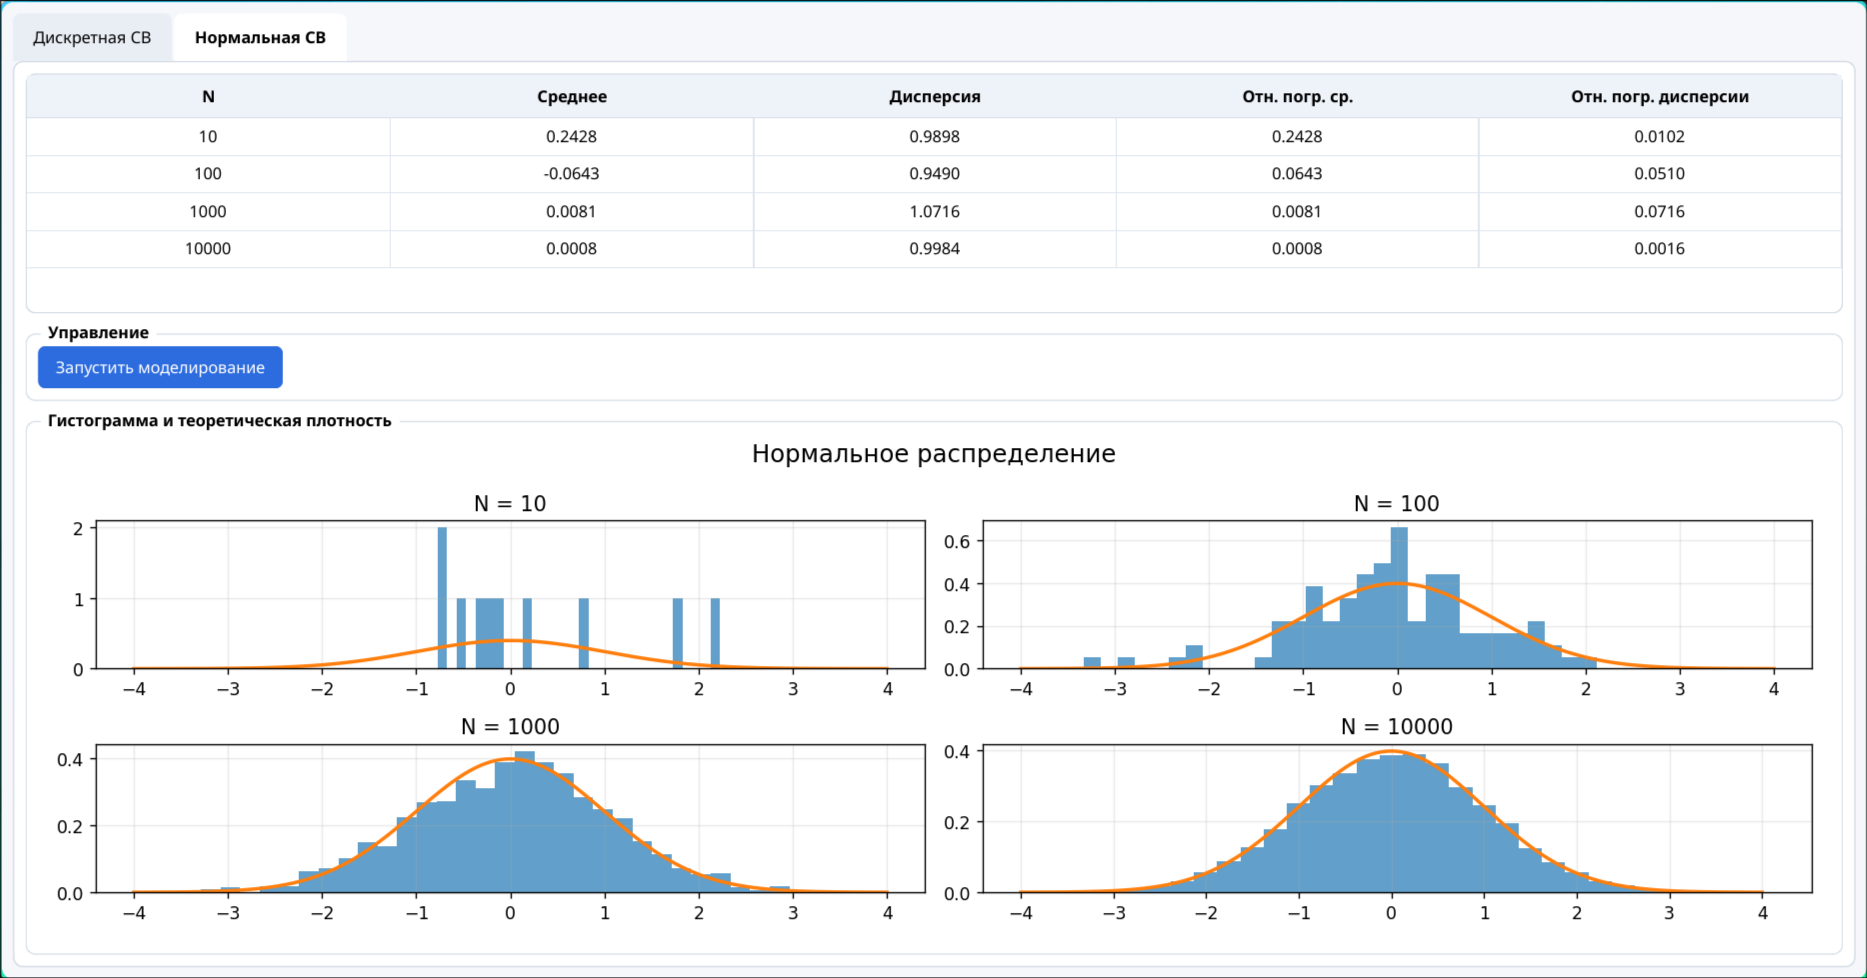
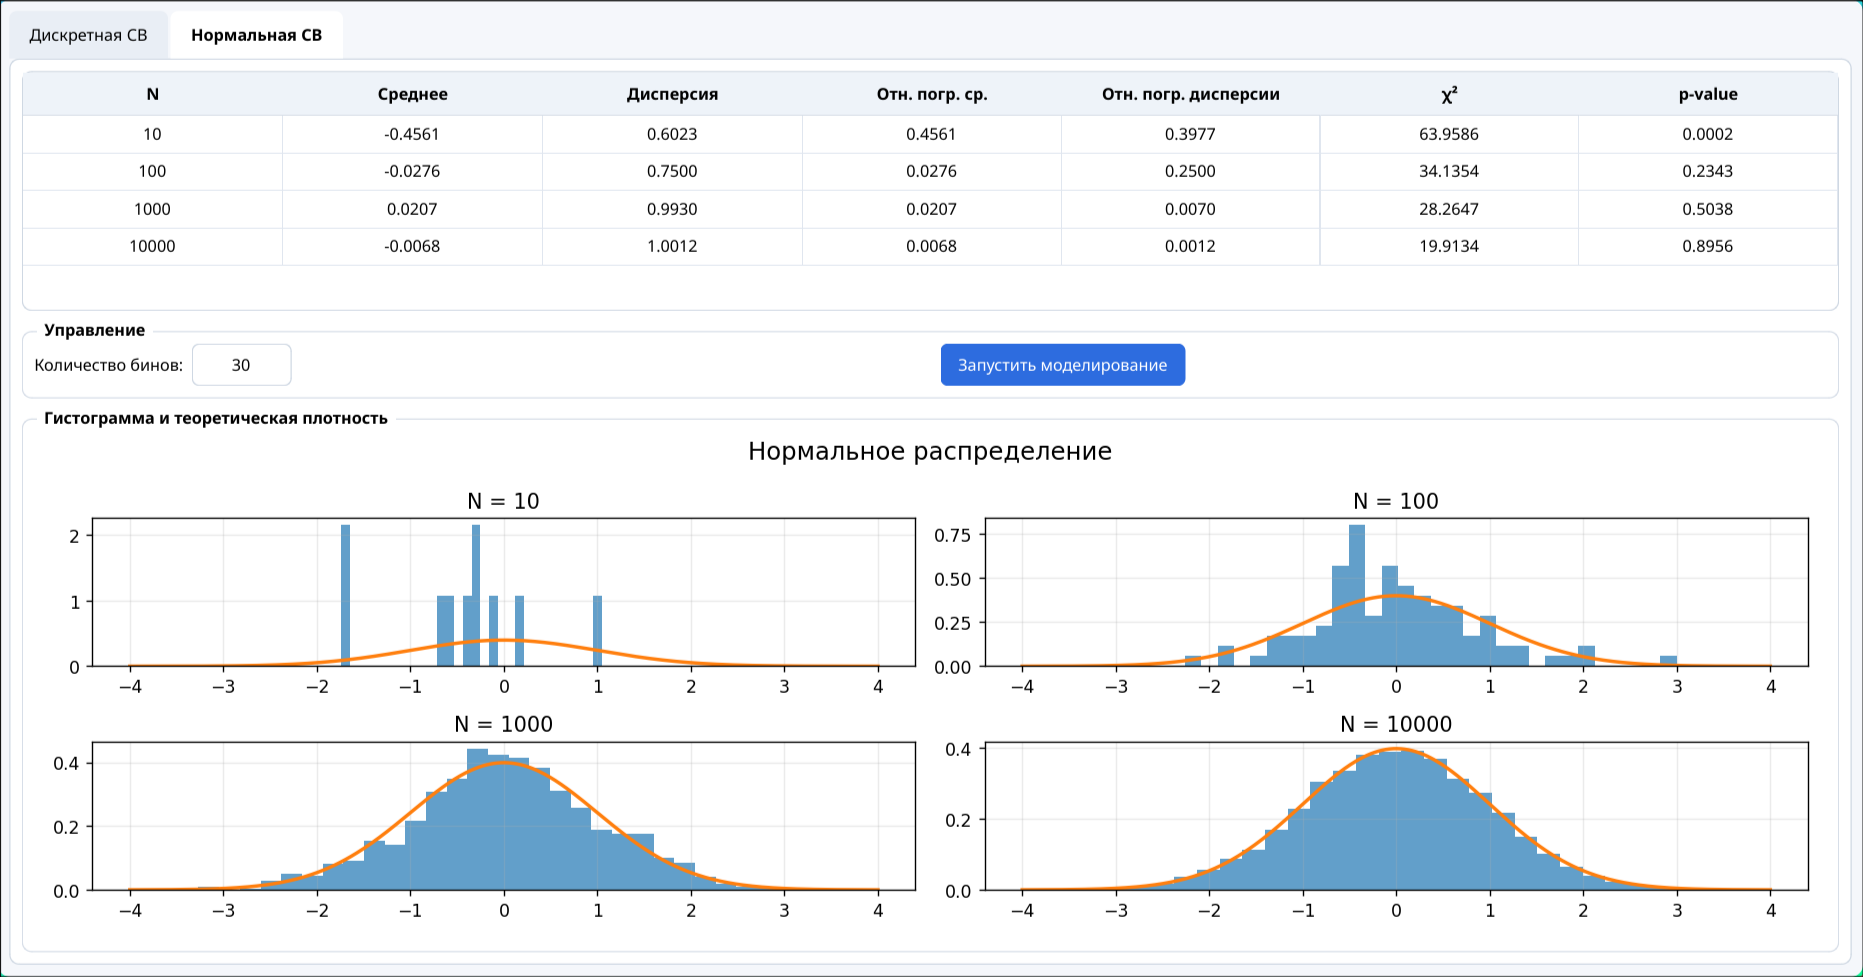
fix lab6

diff --git a/lab06/main.py b/lab06/main.py
@@ -82,6 +82,43 @@ def analyze_discrete(sample: np.ndarray, n: int, probs: np.ndarray):
 
     return emp_p, mean, var, rel_mean_err, rel_var_err, chi_val, p_value
 
+from scipy.stats import norm, chi2
+import numpy as np
+
+def analyze_normal(sample: np.ndarray, n: int, bins: int = 6):
+    true_mean = 0.0
+    true_var = 1.0
+
+    mean = np.mean(sample)
+    var = np.var(sample)
+
+    rel_mean_err = abs(mean - true_mean)
+    rel_var_err = abs(var - true_var)
+
+    counts, bin_edges = np.histogram(sample, bins=bins)
+
+    O = counts
+
+    P = []
+    for i in range(len(bin_edges) - 1):
+        p = norm.cdf(bin_edges[i+1]) - norm.cdf(bin_edges[i])
+        P.append(p)
+
+    P = np.array(P)
+    E = n * P
+
+    mask = E > 0
+    O = O[mask]
+    E = E[mask]
+
+    chi_val = np.sum((O - E) ** 2 / E)
+
+    df = len(O) - 1
+
+    chi_crit = chi2.ppf(0.95, df)
+    p_value = 1 - chi2.cdf(chi_val, df)
+
+    return mean, var, rel_mean_err, rel_var_err, chi_val, p_value, chi_crit
 
 class MplCanvas(FigureCanvas):
     def __init__(self, nrows=1, ncols=1, figsize=(8, 6)):
@@ -335,16 +372,28 @@ class App(QMainWindow):
         controls_box = QGroupBox("Управление")
         controls_layout = QHBoxLayout(controls_box)
 
+        self.bins_input = QLineEdit("12")
+        self.bins_input.setFixedWidth(80)
+        self.bins_input.setAlignment(Qt.AlignmentFlag.AlignCenter)
+
+        controls_layout.addWidget(QLabel("Количество бинов:"))
+        controls_layout.addWidget(self.bins_input)
+
         self.run_normal_btn = QPushButton("Запустить моделирование")
         self.run_normal_btn.clicked.connect(self.run_normal)
 
-        self.normal_table = QTableWidget(0, 5)
+        controls_layout.addWidget(self.run_normal_btn)
+        controls_layout.addStretch()
+
+        self.normal_table = QTableWidget(0, 7)
         self.normal_table.setHorizontalHeaderLabels([
             "N",
             "Среднее",
             "Дисперсия",
             "Отн. погр. ср.",
             "Отн. погр. дисперсии",
+            "χ²",
+            "p-value",
         ])
         self.normal_table.horizontalHeader().setSectionResizeMode(QHeaderView.ResizeMode.Stretch)
         self.normal_table.verticalHeader().setVisible(False)
@@ -365,6 +414,14 @@ class App(QMainWindow):
         layout.addWidget(plots_box, stretch=1)
 
     def run_normal(self):
+        try:
+            bins = int(self.bins_input.text())
+            if bins < 2:
+                raise ValueError
+        except:
+            QMessageBox.critical(self, "Ошибка", "Введите число бинов >1")
+            return
+
         axes = self.normal_canvas.axes.ravel()
 
         for ax in axes:
@@ -378,11 +435,7 @@ class App(QMainWindow):
         for i, n in enumerate(NS):
             sample = generate_normal(n)
 
-            mean = np.mean(sample)
-            var = np.var(sample)
-
-            rel_mean_err = abs(mean - 0) / 1
-            rel_var_err = abs(var - 1) / 1
+            mean, var, rm, rv, chi2_val, p_value, chi_crit = analyze_normal(sample, n, bins)
 
             row = self.normal_table.rowCount()
             self.normal_table.insertRow(row)
@@ -391,8 +444,10 @@ class App(QMainWindow):
                 str(n),
                 f"{mean:.4f}",
                 f"{var:.4f}",
-                f"{rel_mean_err:.4f}",
-                f"{rel_var_err:.4f}",
+                f"{rm:.4f}",
+                f"{rv:.4f}",
+                f"{chi2_val:.4f}",
+                f"{p_value:.4f}",
             ]
 
             for col, v in enumerate(vals):
@@ -401,7 +456,7 @@ class App(QMainWindow):
                 self.normal_table.setItem(row, col, item)
 
             ax = axes[i]
-            ax.hist(sample, bins=30, density=True, alpha=0.7)
+            ax.hist(sample, bins=bins, density=True, alpha=0.7)
 
             ax.plot(x, pdf, linewidth=2)
             ax.set_title(f"N = {n}")

diff --git a/lab06/laba6.md b/lab06/laba6.md
@@ -41,6 +41,7 @@
 - Для выборки N=10 гистограмма получается шумной, не отражает природу нормального распределения.
 - Для выборки N=100 гистограмма все еще шумная, но уже можно увидеть нормальность распределения.
 - Для N=1000,10000 гистограмма почти полностью совпадает с теоретической кривой плотности.
+- Критерий χ² показывает согласие распределения выборки с теоретическим. Для больших N p-значение > 0.05. При этом можно заметить(как и в случае дискретной случайной величины), что иногда при N=10000 p-value может опуститься ниже 0.05, тогда как при N=100,1000 такого не происходит. Это показывает, что даже малейшие отклонения от теоретического распределения при большом объеме выборки могут приводить к росту хи квадрат.  
 
 ### **Вывод:**
 - Моделирование нормального распределения корректно.
